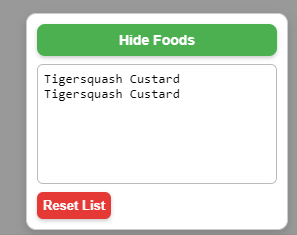
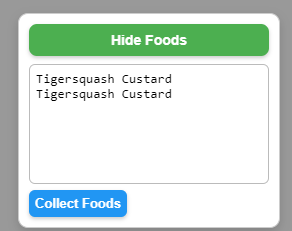
updates to kad

Changed region(s): [[0.0616, 0.0606, 0.9863, 1.0]]

diff --git a/Hero-Created/Kad Foods List Extractor.user.js b/Hero-Created/Kad Foods List Extractor.user.js
@@ -1,22 +1,21 @@
 // ==UserScript==
 // @name         Kad Foods List Extractor
 // @author       Hero
-// @version      1.3
-// @description  Collects food items from the Kadoatery page and displays them in a copyable textbox.
+// @version      1.5
+// @description  Collects food items from the Kadoatery page and displays them in a copyable panel with manual collection button.
 // @icon         https://images.neopets.com/items/foo_gmc_herohotdog.gif
 // @match        *://*.neopets.com/games/kadoatery*
-// @downloadURL  https://github.com/mhero18/Hero-Userscripts/raw/refs/heads/main/Hero-Created/Kad%20Foods%20List%20Extractor.user.js
-// @updateURL    https://github.com/mhero18/Hero-Userscripts/raw/refs/heads/main/Hero-Created/Kad%20Foods%20List%20Extractor.user.js
 // @grant        none
 // ==/UserScript==
 
 /*
- * - Parses the Kadoatery page for food items (after "You should give it").
+ * - Manual "Collect Foods" button to parse current hungry Kads on screen.
+ *   Clears previous list and adds everything visible on the page.
  * - Stores the list in localStorage so it persists across page loads.
  * - Floating panel in bottom-right with:
- *    - Toggle button (minimized by default)
+ *    - Toggle button (closed by default)
  *    - Copyable textarea of foods
- *    - Reset button to clear saved list (requires refresh to repopulate)
+ *    - Collect Foods button to refresh the list
  */
 
 (function() {
@@ -26,18 +25,6 @@
 
     // Load saved list
     let foodList = JSON.parse(localStorage.getItem(STORAGE_KEY)) || [];
-
-    // If list is empty, parse the page
-    if (foodList.length === 0) {
-        const regex = /You should give it\s*<br><strong>(.*?)<\/strong>/gi;
-        let match;
-        const html = document.body.innerHTML;
-        while ((match = regex.exec(html)) !== null) {
-            let food = match[1].trim();
-            foodList.push(food); // allow duplicates
-        }
-        localStorage.setItem(STORAGE_KEY, JSON.stringify(foodList));
-    }
 
     // Create floating UI container
     const container = document.createElement("div");
@@ -76,7 +63,7 @@
     toggleBtn.addEventListener("mouseover", () => toggleBtn.style.background = "#45a049");
     toggleBtn.addEventListener("mouseout", () => toggleBtn.style.background = "#4CAF50");
 
-    // Textbox
+    // Textarea
     const textarea = document.createElement("textarea");
     textarea.value = foodList.join("\n");
     Object.assign(textarea.style, {
@@ -91,13 +78,13 @@
         fontFamily: "monospace"
     });
 
-    // Reset button
-    const resetBtn = document.createElement("button");
-    resetBtn.textContent = "Reset List";
-    Object.assign(resetBtn.style, {
-        marginTop: "8px",
+    // Collect Foods button
+    const collectBtn = document.createElement("button");
+    collectBtn.textContent = "Collect Foods";
+    Object.assign(collectBtn.style, {
+        marginTop: "6px",
         padding: "6px",
-        background: "#e53935",
+        background: "#2196F3",
         color: "white",
         border: "none",
         borderRadius: "6px",
@@ -107,29 +94,35 @@
         display: "none",
         boxShadow: "0 2px 4px rgba(0,0,0,0.2)"
     });
-    resetBtn.addEventListener("mouseover", () => resetBtn.style.background = "#d32f2f");
-    resetBtn.addEventListener("mouseout", () => resetBtn.style.background = "#e53935");
+    collectBtn.addEventListener("mouseover", () => collectBtn.style.background = "#1976D2");
+    collectBtn.addEventListener("mouseout", () => collectBtn.style.background = "#2196F3");
+
+    collectBtn.addEventListener("click", () => {
+        // Clear previous list and parse new
+        foodList = [];
+        const regex = /You should give it\s*<br><strong>(.*?)<\/strong>/gi;
+        let match;
+        const html = document.body.innerHTML;
+        while ((match = regex.exec(html)) !== null) {
+            let food = match[1].trim();
+            foodList.push(food);
+        }
+        localStorage.setItem(STORAGE_KEY, JSON.stringify(foodList));
+        textarea.value = foodList.join("\n");
+    });
 
     // Toggle logic
     toggleBtn.addEventListener("click", () => {
         const isHidden = textarea.style.display === "none";
         textarea.style.display = isHidden ? "block" : "none";
-        resetBtn.style.display = isHidden ? "block" : "none";
+        collectBtn.style.display = isHidden ? "block" : "none";
         toggleBtn.textContent = isHidden ? "Hide Foods" : "Show Foods";
-    });
-
-    // Reset logic
-    resetBtn.addEventListener("click", () => {
-        localStorage.removeItem(STORAGE_KEY);
-        textarea.value = "";
-        foodList = [];
     });
 
     // Append UI
     container.appendChild(toggleBtn);
     container.appendChild(textarea);
-    container.appendChild(resetBtn);
+    container.appendChild(collectBtn);
     document.body.appendChild(container);
-
 
 })();
